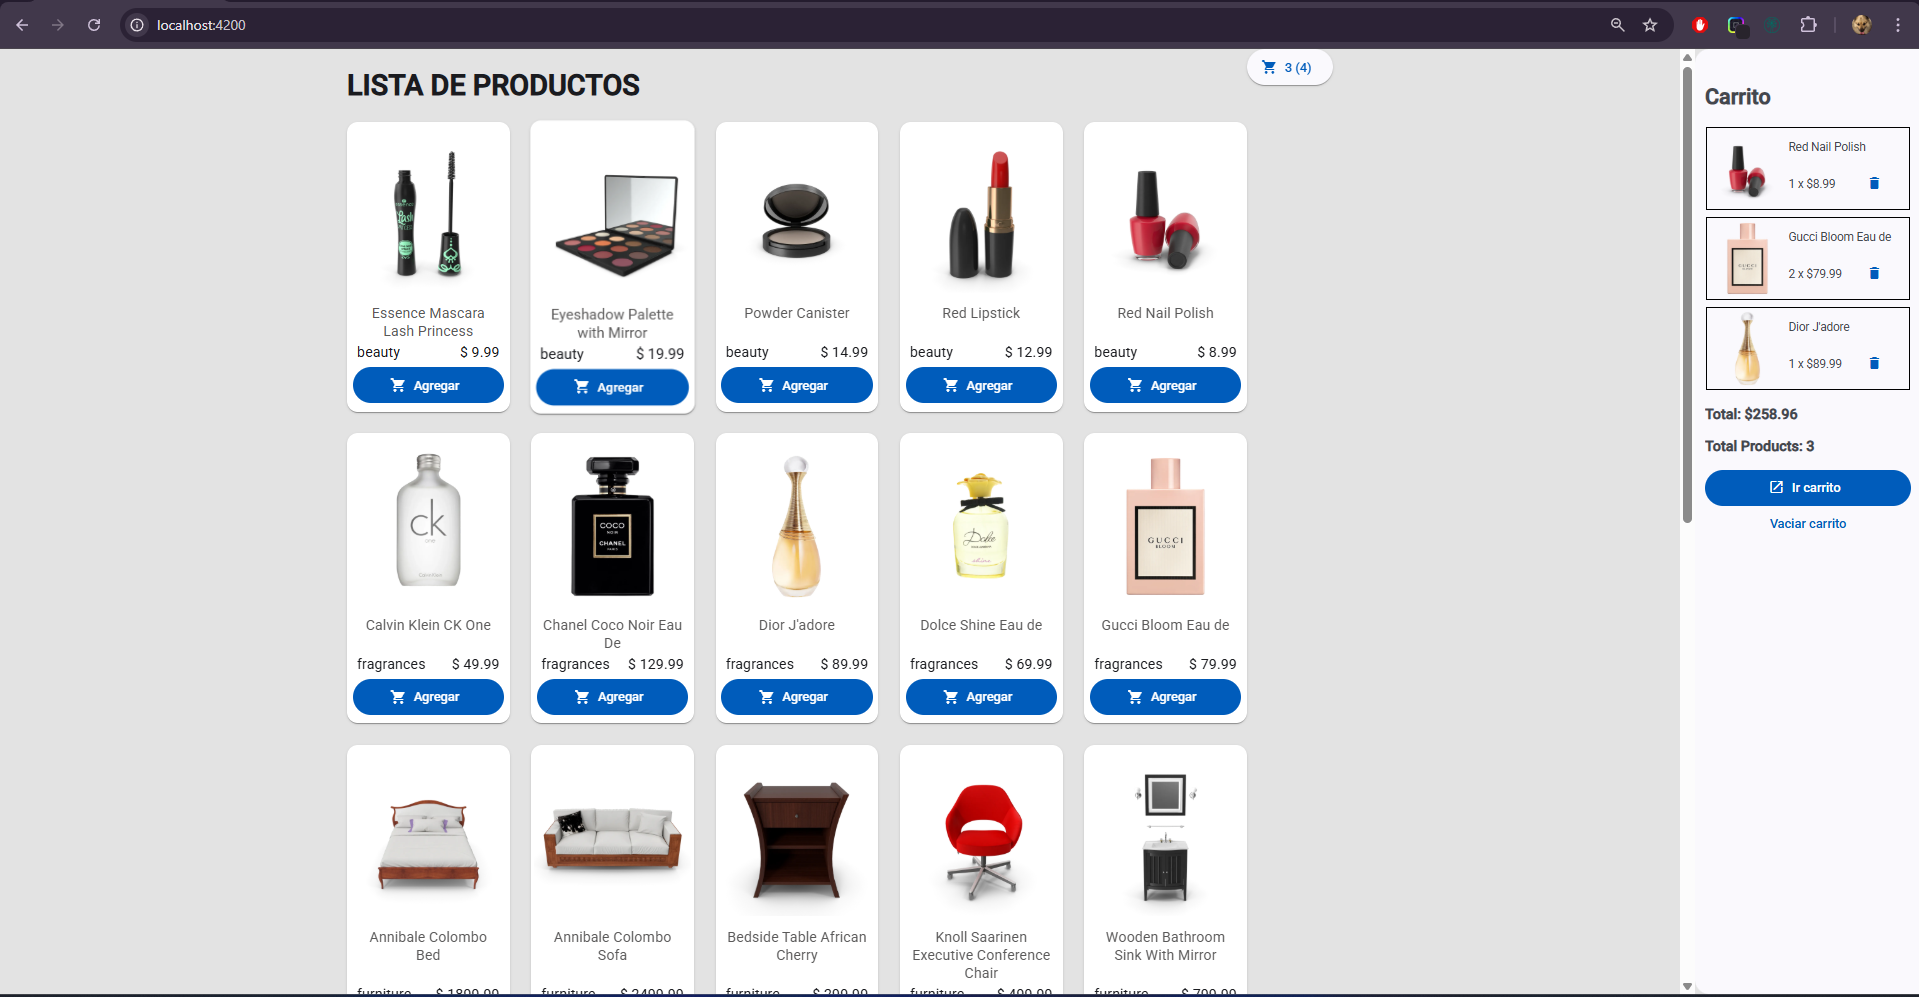
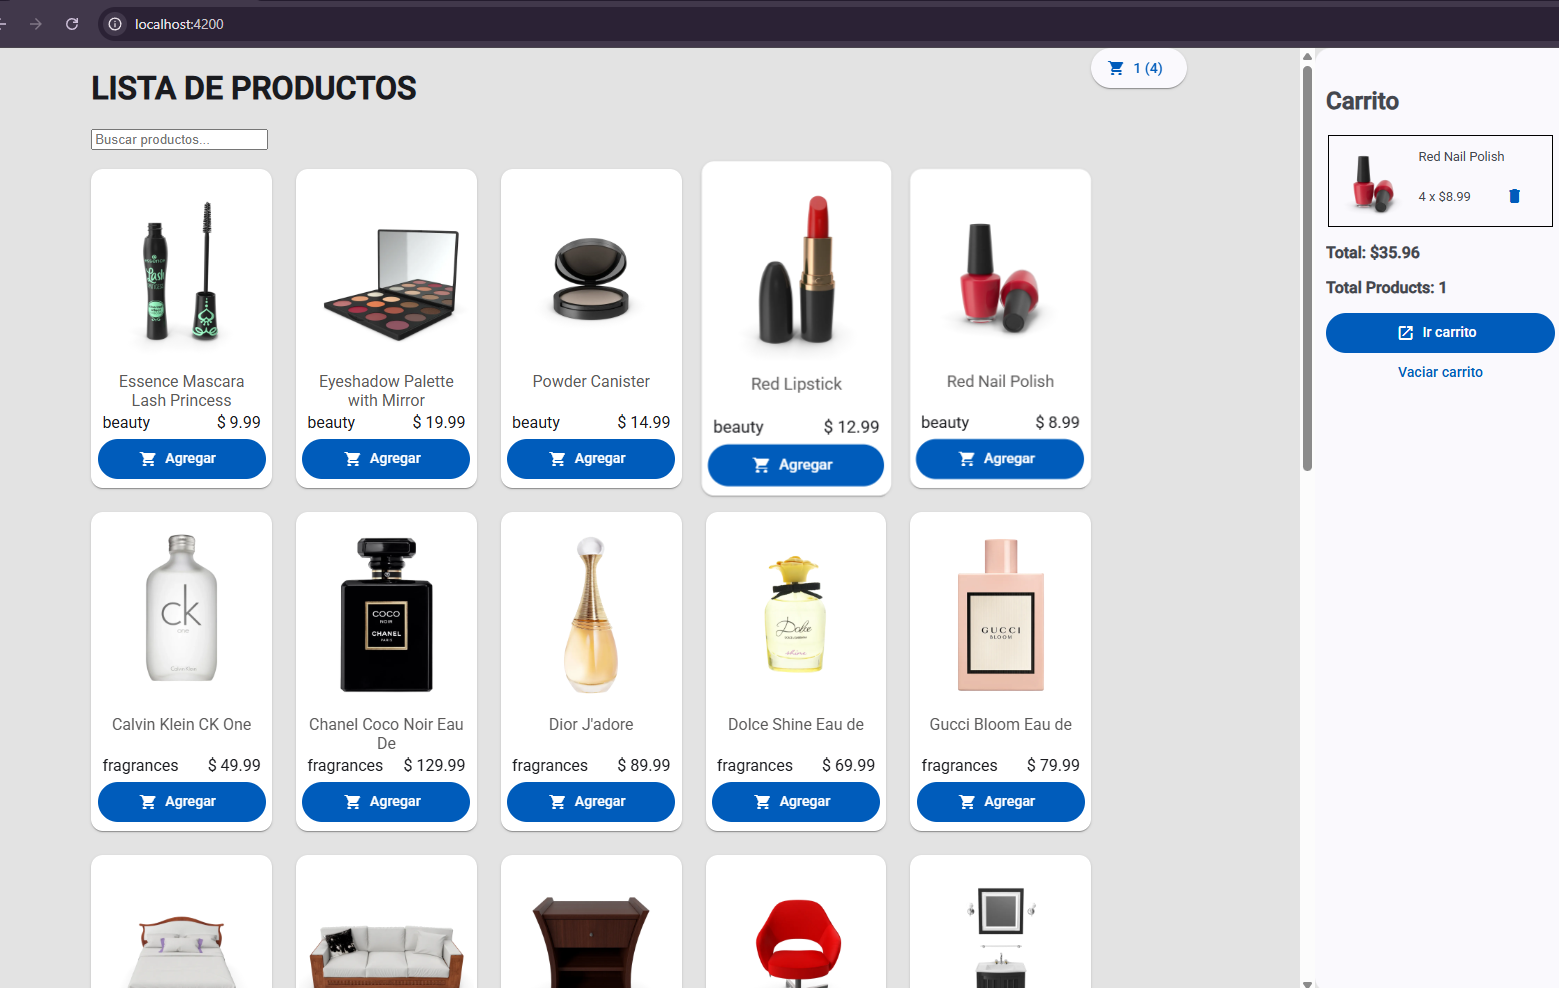
fix: resolviendo con stop propagations

diff --git a/README.md b/README.md
@@ -75,6 +75,17 @@ Lista\
 Ver\
 ![2.viewblog.png](miscelanius/2.viewblog.png)
 
+# ESTRUCTURA CARPETAS
+
+to-do-list\
+![struct_task.png](miscelanius/struct_task.png)
+
+product-catalog\
+![st ruct_cat_prod.png](miscelanius/struct_cat_prod.png)
+
+my-blog\
+![struct_posts.png](miscelanius/struct_posts.png)
+
 # ARQUITECTURA LIMPIA
 ```
 src/
